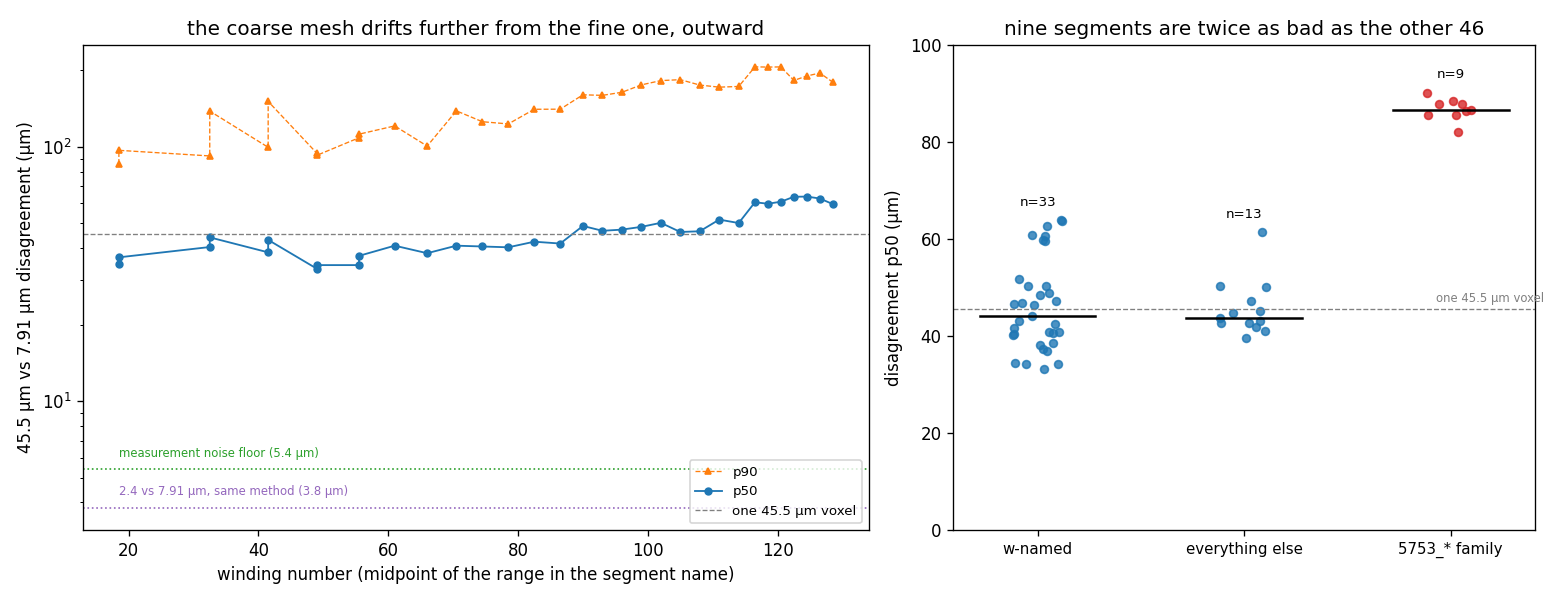
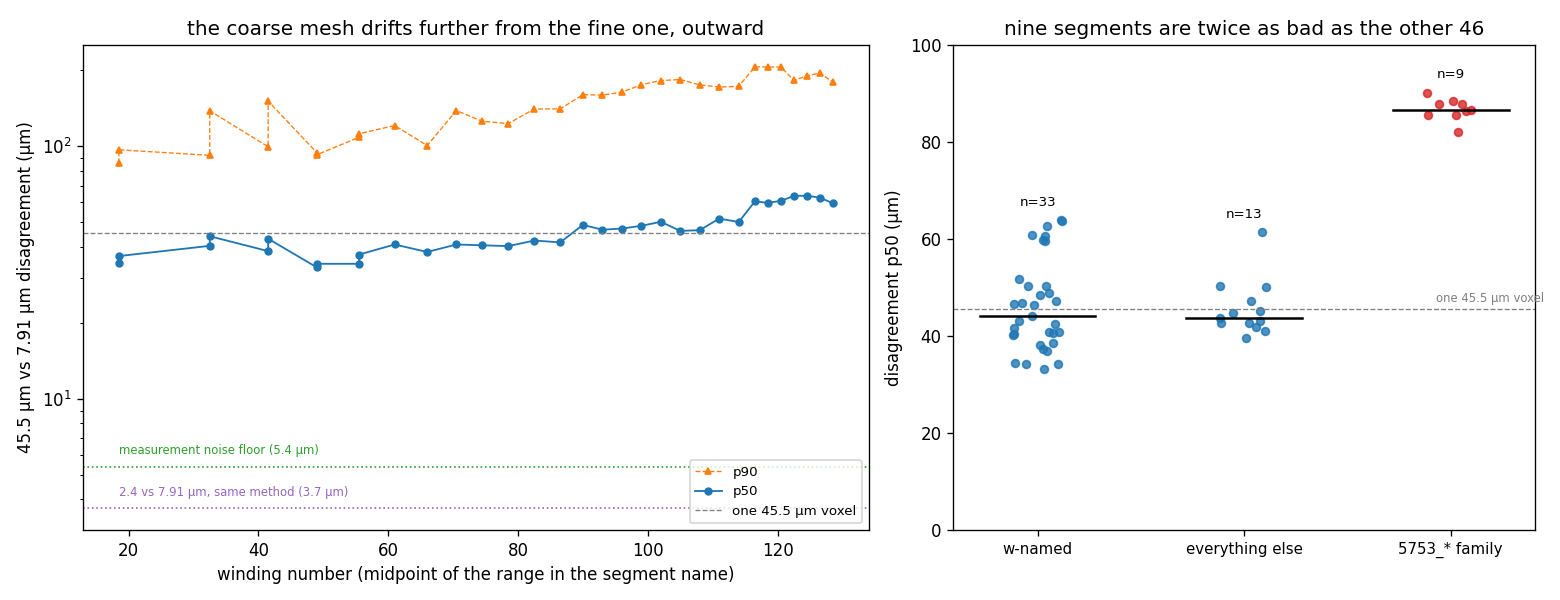
對照組擴到三個群組：45.5 µm 那一側才是問題所在
驗收指出原本的對照組只取樣「2023 批」——正好是在 45.5 µm 上分歧最小的那一群，
所以「量測與 transform 沒問題」這個結論對最差的群組沒有被驗證過。補上兩個
5753_* 與內／外圈各一個 w-named，2.4 vs 7.91 從 5 個變 9 個：

  5753_-7        2.87 µm
  5753_-2        3.33 µm
  w010-027       3.51 µm
  w128-129       3.80 µm
  2023 那批  3.66–3.99 µm

**兩個 5753 比 2023 那批還緊**，而在 45.5 µm 上圈數趨勢裡最差的 w128-129 與最內
圈相同。所以 45.5 µm 那一列裡的兩個結構（5753 家族差一倍、分歧由內往外上升）
都住在 45.5 µm 那一側：那個批次與外圈都不是本質上難定位，只是在 45.5 µm 上難
定位。w128-129 在細解析度之間確實仍有較長的尾巴（p90 29 µm，其他 11–14），照實記。

對照組中位數因此從 3.8 µm（n=5）變成 3.7 µm（n=9），倍數仍是十二倍。

另外補 README Usage 的缺口：原本只教 `xres_fetch.py 7.91um`，但對照組那兩列需要
2.4um 與 1.129um 的 mesh，照著 README 做會拿不到。

diff --git a/xres_control.py b/xres_control.py
@@ -25,17 +25,25 @@ def cmp(Pa, va, Pb, vb, n=2500):
     d = xres.surface_dist(Q, Pb, vb)
     return np.abs(d[~np.isnan(d)])
 
-SEGS = ["20230702185753", "20230929220926", "20231005123336", "20231031143852", "20231210121321"]
+# One per group of the xres_scan breakdown, so the control is not accidentally
+# sampled only from the group that scores best at 45.5 um.
+SEGS = [("20230702185753", "2023"), ("20230929220926", "2023"),
+        ("20231005123336", "2023"), ("20231031143852", "2023"),
+        ("20231210121321", "2023"),
+        ("20260602204401-5753_-7", "5753"), ("20260603024952-5753_-2", "5753"),
+        ("20260623141924-w010-027", "w-named, inner"),
+        ("20260623171929-w128-129", "w-named, outer")]
 
-for seg in SEGS:
+for seg, label in SEGS:
     p79, p24 = xres.find_mesh(seg, "7.91"), xres.find_mesh(seg, "2.4")
     if not (p79 and p24):
         print(f"{seg}: missing a mesh (run xres_fetch.py 2.4um)"); continue
     A, va = load_in(p24, xres.VOLS["2.4"])
     B, vb = load_in(p79)
     d = cmp(A, va, B, vb) * xres.UM
-    print(f"{seg}  2.4 vs 7.91: n={len(d):<5} p50={np.median(d):6.2f} p90={np.percentile(d,90):6.2f} "
-          f"p99={np.percentile(d,99):7.2f} um   = {np.median(d)/7.91:.2f} x 7.91um voxel", flush=True)
+    print(f"{seg:<24} {label:<15} 2.4 vs 7.91: n={len(d):<5} p50={np.median(d):6.2f} "
+          f"p90={np.percentile(d,90):6.2f} p99={np.percentile(d,99):7.2f} um "
+          f"= {np.median(d)/7.91:.2f} x 7.91um voxel", flush=True)
 
 # third point on the ladder: 1.129 vs 2.4, done in the 2.4 volume's own frame
 seg = "20230702185753"

diff --git a/xres_plot.py b/xres_plot.py
@@ -6,7 +6,7 @@ import matplotlib.pyplot as plt
 rows = json.load(open(sys.argv[1] if len(sys.argv) > 1 else "xres_results.json"))
 out = sys.argv[2] if len(sys.argv) > 2 else "xres-agreement.png"
 VX = 45.532
-CONTROL, FINE24, FINE11 = 5.4, 3.8, 0.34      # xres.py / xres_control.py
+CONTROL, FINE24, FINE11 = 5.4, 3.7, 0.34      # xres.py / xres_control.py
 
 def wind(s):
     m = re.search(r"w(\d{3})-(\d{3})", s)
@@ -19,7 +19,7 @@ x = [a for a, _ in w]
 ax[0].plot(x, [r["p90"] for _, r in w], "^--", ms=4, lw=.8, color="tab:orange", label="p90")
 ax[0].plot(x, [r["p50"] for _, r in w], "o-", ms=4, lw=1.1, color="tab:blue", label="p50")
 for y, t, c in [(CONTROL, "measurement noise floor (5.4 µm)", "tab:green"),
-                (FINE24, "2.4 vs 7.91 µm, same method (3.8 µm)", "tab:purple")]:
+                (FINE24, "2.4 vs 7.91 µm, same method (3.7 µm)", "tab:purple")]:
     ax[0].axhline(y, color=c, lw=1, ls=":")
     ax[0].text(x[0], y * 1.12, t, fontsize=7, color=c)
 ax[0].axhline(VX, color="grey", lw=.8, ls="--", label="one 45.5 µm voxel")

diff --git a/README.md b/README.md
@@ -193,11 +193,11 @@ the 7.91 µm volume, with `xres_control.py` as the control arm:
 | pair | segments | disagreement p50 | = voxels of the coarser volume |
 |---|---|---|---|
 | 45.5 µm vs 7.91 µm | 55 | **46.6 µm** | 1.02 |
-| 2.4 µm vs 7.91 µm | 5 | 3.8 µm | 0.48 |
+| 2.4 µm vs 7.91 µm | 9 | 3.7 µm | 0.47 |
 | 1.129 µm vs 2.4 µm | 1 | 0.34 µm | 0.14 |
 
 The control arm is what makes the first row readable. Between the fine volumes
-the same comparison, the same transforms and the same code return 3.8 µm and
+the same comparison, the same transforms and the same code return 3.7 µm and
 0.34 µm — twelve and a hundred times tighter. So the 46.6 µm is not the
 measurement, and not the transform file format. A papyrus sheet is only a few
 45.5 µm voxels thick, and a surface traced at that resolution turns out to be
@@ -237,8 +237,16 @@ Three of the ranges were segmented twice (2026-06-23 and 2026-07-01); the two
 batches agree to 2.3, 3.7 and 4.6 µm there, so the level is reproducible and not
 an artefact of one run.
 
-It also matches the mask check, which rises outward on the same data, and the
-agreement is not circular: one check asks whether a vertex is on the object, the
+The control arm samples all three groups, not only the one that scores best at
+45.5 µm. The two `5753_*` segments come back at 2.9 and 3.3 µm — *tighter* than
+the 2023 batch — and `w128-129`, the worst of the winding trend at 45.5 µm,
+returns 3.8 µm, the same as the innermost range. Both structures in the top row
+therefore live on the 45.5 µm side: neither that batch nor the outer windings
+are intrinsically hard to place, only hard to place *at 45.5 µm*. (w128-129 does
+carry a longer tail even here — p90 29 µm against 11–14 elsewhere.)
+
+The outward trend also matches the mask check, which rises outward on the same
+data, and the agreement is not circular: one check asks whether a vertex is on the object, the
 other asks whether two volumes place the same sheet in the same spot.
 
 **What this does not resolve.** The 45.5 µm side carries two candidate causes
@@ -313,6 +321,8 @@ published transforms:
 
 ```bash
 python3 xres_fetch.py 7.91um      # transforms + every 7.91 um mesh (~180 MB)
+python3 xres_fetch.py 2.4um       # the control arm's other side (~2 GB; a few
+python3 xres_fetch.py 1.129um     #   segments are enough - interrupt when bored)
 python3 xres.py 20230702185753    # one segment at three resolutions, with the control
 python3 xres_scan.py              # all of them -> xres_results.json
 python3 xres_control.py           # control arm: the fine volumes against each other

diff --git a/SUBMISSION.md b/SUBMISSION.md
@@ -114,7 +114,7 @@ volume:
 | pair | segments | disagreement p50 | = voxels of the coarser volume |
 |---|---|---|---|
 | 45.5 µm vs 7.91 µm | 55 | **46.6 µm** | 1.02 |
-| 2.4 µm vs 7.91 µm | 5 | 3.8 µm | 0.48 |
+| 2.4 µm vs 7.91 µm | 9 | 3.7 µm | 0.47 |
 | 1.129 µm vs 2.4 µm | 1 | 0.34 µm | 0.14 |
 
 The lower two rows are the control arm, and they are what make the top row
@@ -133,6 +133,14 @@ three winding ranges were segmented twice and the two batches agree to 2.3–4.6
 µm, so the level reproduces. That matches the mask check's own outward trend
 without being circular — one asks whether a vertex is on the object, the other
 whether two volumes put the same sheet in the same place.
+
+The control arm samples all three groups, not only the one that scores best at
+45.5 µm. The two `5753_*` segments come back at 2.9 and 3.3 µm — *tighter* than
+the 2023 batch — and `w128-129`, the worst of the winding trend at 45.5 µm,
+returns 3.8 µm, the same as the innermost range. Both structures in the top row
+therefore live on the 45.5 µm side: neither that batch nor the outer windings
+are intrinsically hard to place, only hard to place *at 45.5 µm*. (w128-129 does
+carry a longer tail even here — p90 29 µm against 11–14 elsewhere.)
 
 What it does not resolve: the 45.5 µm side carries two candidate causes this
 data cannot separate — the coarse volume's resolution limit, and the quality of
